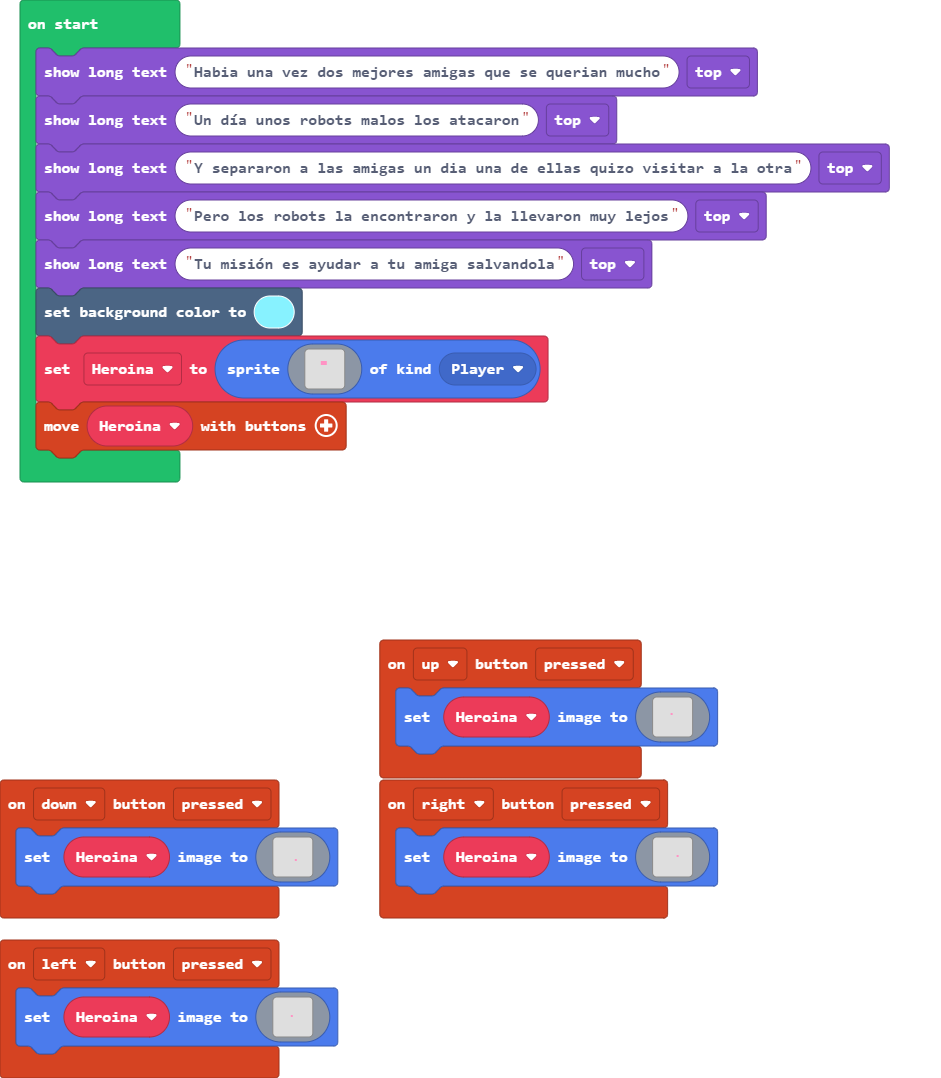
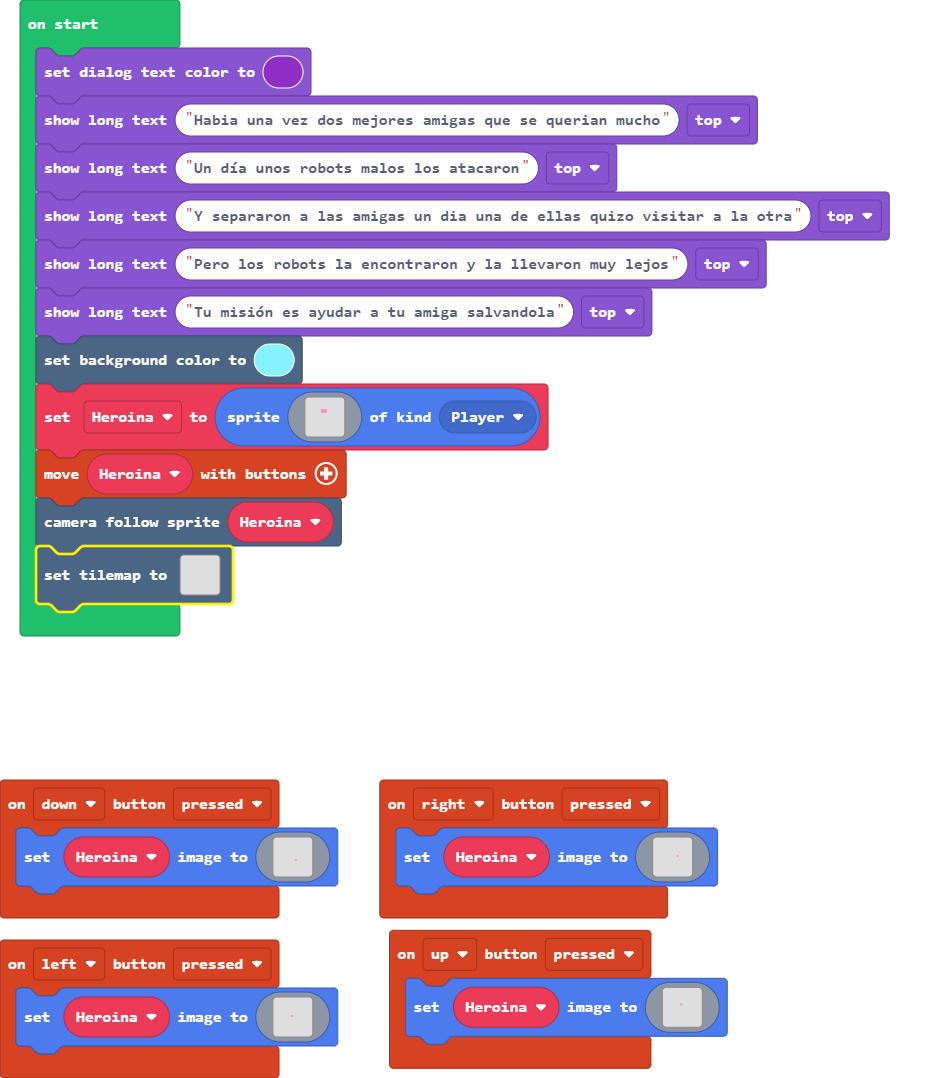
Agregue laberinto y camara

Changed region(s): [[0.0, 0.0306, 0.9554, 0.6122], [0.4006, 0.8571, 0.8013, 1.0], [0.4006, 0.5816, 0.7705, 0.7347]]

diff --git a/main.ts b/main.ts
@@ -79,6 +79,7 @@ controller.down.onEvent(ControllerButtonEvent.Pressed, function () {
         `)
 })
 let Heroina: Sprite = null
+game.setDialogTextColor(10)
 game.showLongText("Habia una vez dos mejores amigas que se querian mucho", DialogLayout.Top)
 game.showLongText("Un día unos robots malos los atacaron", DialogLayout.Top)
 game.showLongText("Y separaron a las amigas un dia una de ellas quizo visitar a la otra", DialogLayout.Top)
@@ -104,3 +105,22 @@ Heroina = sprites.create(img`
     . . . . . . . . . . . . . . . . 
     `, SpriteKind.Player)
 controller.moveSprite(Heroina)
+scene.cameraFollowSprite(Heroina)
+tiles.setTilemap(tiles.createTilemap(hex`1000100000000000000000000000000000000000000000000000000000000000000000000000000000000000000000000000000000000000000000000000000000000000000000000000000000000000000000000000000000000000000000000000000000000000000000000000000000000000000000000000000000000000000000000000000000000000000000000000000000000000000000000000000000000000000000000000000000000000000000000000000000000000000000000000000000000000000000000000000000000000000000000000000000000000000000000000000000000000000000000000000000000000000000000000000000000000`, img`
+    . . . . . . . . . . . . . . . . 
+    . . . . . . . . . . . . . . . . 
+    . . . . . . . . . . . . . . . . 
+    . . . . . . . . . . . . . . . . 
+    . . . . . . . . . . . . . . . . 
+    . . . . . . . . . . . . . . . . 
+    . . . . . . . . . . . . . . . . 
+    . . . . . . . . . . . . . . . . 
+    . . . . . . . . . . . . . . . . 
+    . . . . . . . . . . . . . . . . 
+    . . . . . . . . . . . . . . . . 
+    . . . . . . . . . . . . . . . . 
+    . . . . . . . . . . . . . . . . 
+    . . . . . . . . . . . . . . . . 
+    . . . . . . . . . . . . . . . . 
+    . . . . . . . . . . . . . . . . 
+    `, [myTiles.transparency16], TileScale.Sixteen))
